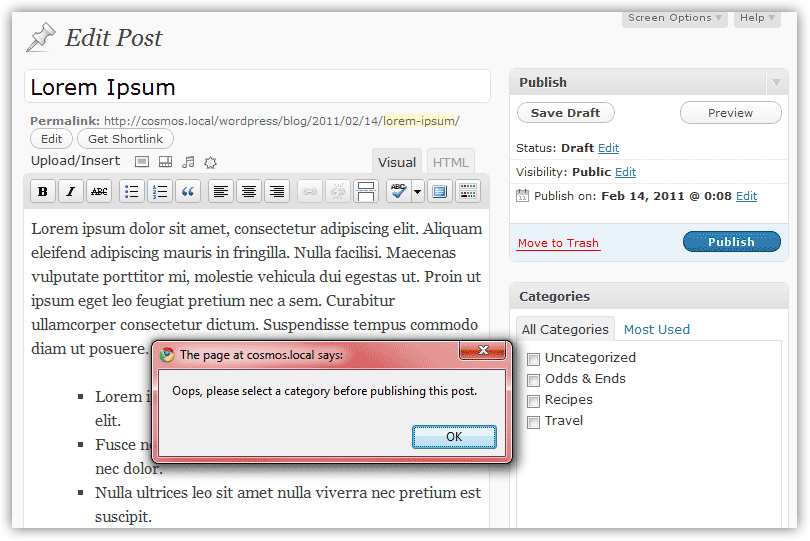
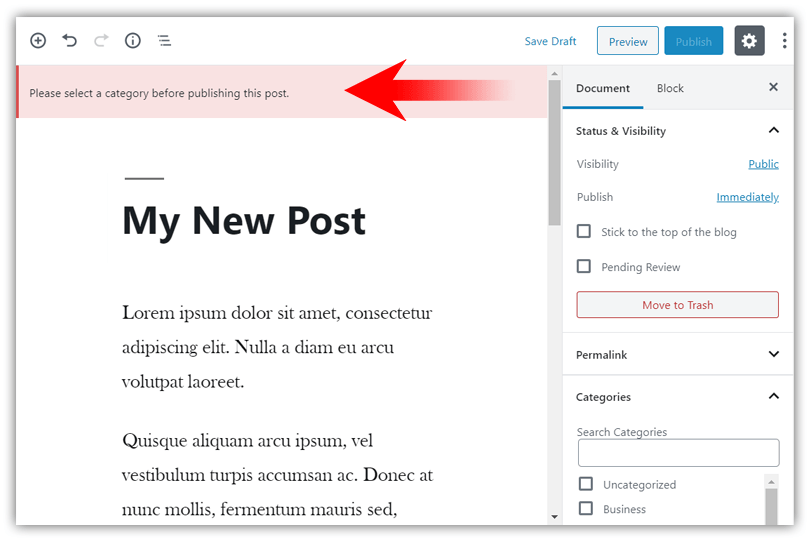
Update plugin: require-post-category.

Changed region(s): [[0.0, 0.0, 0.9877, 0.976], [0.8025, 0.1479, 0.8642, 0.1774], [0.6481, 0.0591, 0.7099, 0.0887]]

diff --git a/wp-content/plugins/require-post-category/require-post-category.js b/wp-content/plugins/require-post-category/require-post-category.js
@@ -1,5 +1,5 @@
 jQuery(function ($) {
-    $('#publish, #save-post').on('click.require-post-category', function (e) {
+    function rpc_event_handler(e) {
         require_post_category.error = false;
         $.each(require_post_category.taxonomies, function (taxonomy, config) {
             if (config.type == 'hierarchical') {
@@ -20,20 +20,30 @@ jQuery(function ($) {
         } else {
             return true;
         }
-    });
-    if ($('#publish').data('events') != null) {
-        var publish_click_events = $('#publish').data('events').click;
+    }
+    $('#publish, #save-post').on('click.require-post-category', rpc_event_handler);
+    $('#post').on('submit.require-post-category', rpc_event_handler);
+    if ($('#publish')[0] != null && $._data($('#publish')[0], "events") != null) {
+        var publish_click_events = $._data($('#publish')[0], "events").click;
         if (publish_click_events) {
             if (publish_click_events.length > 1) {
                 publish_click_events.unshift(publish_click_events.pop());
             }
         }
     }
-    if ($('#save-post').data('events') != null) {
-        var save_click_events = $('#save-post').data('events').click;
+    if ($('#save-post')[0] != null && $._data($('#save-post')[0], "events") != null) {
+        var save_click_events = $._data($('#save-post')[0], "events").click;
         if (save_click_events) {
             if (save_click_events.length > 1) {
                 save_click_events.unshift(save_click_events.pop());
+            }
+        }
+    }
+    if ($('#post')[0] != null && $._data($('#post')[0], "events") != null) {
+        var post_submit_events = $._data($('#post')[0], "events").submit;
+        if (post_submit_events) {
+            if (post_submit_events.length > 1) {
+                post_submit_events.unshift(post_submit_events.pop());
             }
         }
     }

diff --git a/wp-content/plugins/require-post-category/require-post-category-gutenberg.js b/wp-content/plugins/require-post-category/require-post-category-gutenberg.js
@@ -1,0 +1,41 @@
+const {select, dispatch} = wp.data;
+
+function RpcPrePublishCheck() {
+    let lockPost = false;
+    require_post_category.error = false;
+    require_post_category.messages = [];
+
+    let rpc_post_pre_save = Object.assign({}, select('core/editor').getCurrentPost(), select('core/editor').getPostEdits());
+
+    if (rpc_post_pre_save.hasOwnProperty('categories')) {
+        rpc_post_pre_save['categories'] = rpc_post_pre_save['categories'].filter(function (ele) {
+            return ele !== 1;
+        });
+    }
+
+    jQuery.each(require_post_category.taxonomies, function (taxonomy, config) {
+        if (rpc_post_pre_save.hasOwnProperty(taxonomy) && rpc_post_pre_save[taxonomy].length === 0) {
+            dispatch('core/notices').createNotice(
+                'error',
+                config.message,
+                {
+                    id: 'rpcNotice_' + taxonomy,
+                    isDismissible: false
+                }
+            );
+            require_post_category.error = lockPost = true;
+        }else{
+            dispatch('core/notices').removeNotice('rpcNotice_' + taxonomy);
+        }
+    });
+
+    if (lockPost === true) {
+        dispatch('core/editor').lockPostSaving();
+    } else {
+        dispatch('core/editor').unlockPostSaving();
+    }
+}
+
+RpcPrePublishCheck();
+
+let rpc_check_interval = setInterval(RpcPrePublishCheck, 500);

diff --git a/wp-content/plugins/require-post-category/require-post-category.php b/wp-content/plugins/require-post-category/require-post-category.php
@@ -1,16 +1,16 @@
 <?php
 /*
 Plugin Name: Require Post Category
-Plugin URI: https://www.warpconduit.net/wordpress-plugins/require-post-category/
-Description: Require users to choose a post category before saving a draft or publishing.
-Version: 1.1
+Plugin URI: https://wordpress.org/plugins/require-post-category/
+Description: Require users to choose a post category before updating or publishing a post.
+Version: 2.1
 Author: Josh Hartman
 Author URI: https://www.warpconduit.net
 License: GPL2
 Text Domain: require-post-category
 */
 /*
-    Copyright 2018 Josh Hartman
+    Copyright 2020 Josh Hartman
     
     This program is free software; you can redistribute it and/or modify
     it under the terms of the GNU General Public License, version 2, as 
@@ -38,6 +38,9 @@ function rpc_admin_enqueue_scripts_func( $hook ) {
 		return;
 	}
 	global $post_type;
+
+	$rpc_is_gutenberg_active = rpc_is_gutenberg_active();
+
 	$default_post_types = array(
 		'post' => array(
 			'category' => array(
@@ -87,25 +90,58 @@ function rpc_admin_enqueue_scripts_func( $hook ) {
 			continue;
 		}
 
+		$taxonomy_object = get_taxonomy( $taxonomy );
+		$taxonomy_labels = get_taxonomy_labels( $taxonomy_object );
+
 		$post_types[ $post_type ][ $taxonomy ]['type'] = $config['type'] = ( is_taxonomy_hierarchical( $taxonomy ) ? 'hierarchical' : 'non-hierarchical' );
 
 		if ( ! isset( $config['message'] ) || $taxonomy === $config ) {
-			$taxonomy_labels   = get_taxonomy_labels( get_taxonomy( $taxonomy ) );
 			$post_type_labels  = get_post_type_labels( get_post_type_object( $post_type ) );
 			$config['message'] = "Please choose at least one {$taxonomy_labels->singular_name} before publishing this {$post_type_labels->singular_name}.";
 		}
 
 		$post_types[ $post_type ][ $taxonomy ]['message'] = __( $config['message'], 'require-post-category' );
+
+		if ( $rpc_is_gutenberg_active && !empty($taxonomy_object->rest_base) && $taxonomy !== $taxonomy_object->rest_base ) {
+			$post_types[ $post_type ][ $taxonomy_object->rest_base ] = $post_types[ $post_type ][ $taxonomy ];
+			unset( $post_types[ $post_type ][ $taxonomy ] );
+		}
 	}
 
 	if ( empty( $post_types[ $post_type ] ) ) {
 		return;
 	}
 
-	wp_enqueue_script( 'jquery-rpc', plugin_dir_url( __FILE__ ) . 'require-post-category.js', array( 'jquery' ), false, true );
+	if ( $rpc_is_gutenberg_active ) {
+		wp_enqueue_script( 'jquery-rpc', plugin_dir_url( __FILE__ ) . 'require-post-category-gutenberg.js', array(
+			'jquery', 'wp-data', 'wp-editor', 'wp-edit-post'
+		));
+	} else {
+		wp_enqueue_script( 'jquery-rpc', plugin_dir_url( __FILE__ ) . 'require-post-category.js', array( 'jquery' ), false, true );
+	}
+
 	wp_localize_script( 'jquery-rpc', 'require_post_category', array(
 			'taxonomies' => $post_types[ $post_type ],
 			'error'      => false
 		)
 	);
+
+}
+
+function rpc_is_gutenberg_active() {
+	if ( function_exists( 'is_gutenberg_page' ) &&
+	     is_gutenberg_page()
+	) {
+		return true;
+	}
+
+	$current_screen = get_current_screen();
+
+	if ( method_exists( $current_screen, 'is_block_editor' ) &&
+	     $current_screen->is_block_editor()
+	) {
+		return true;
+	}
+	
+	return false;
 }
